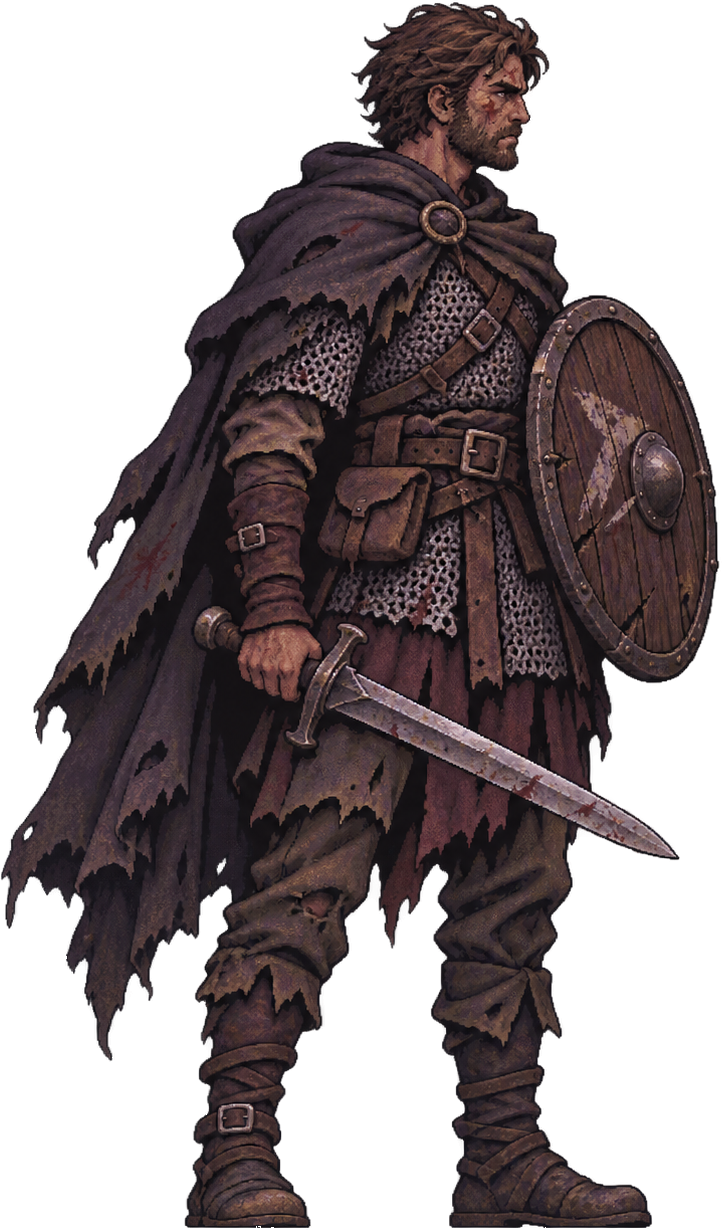
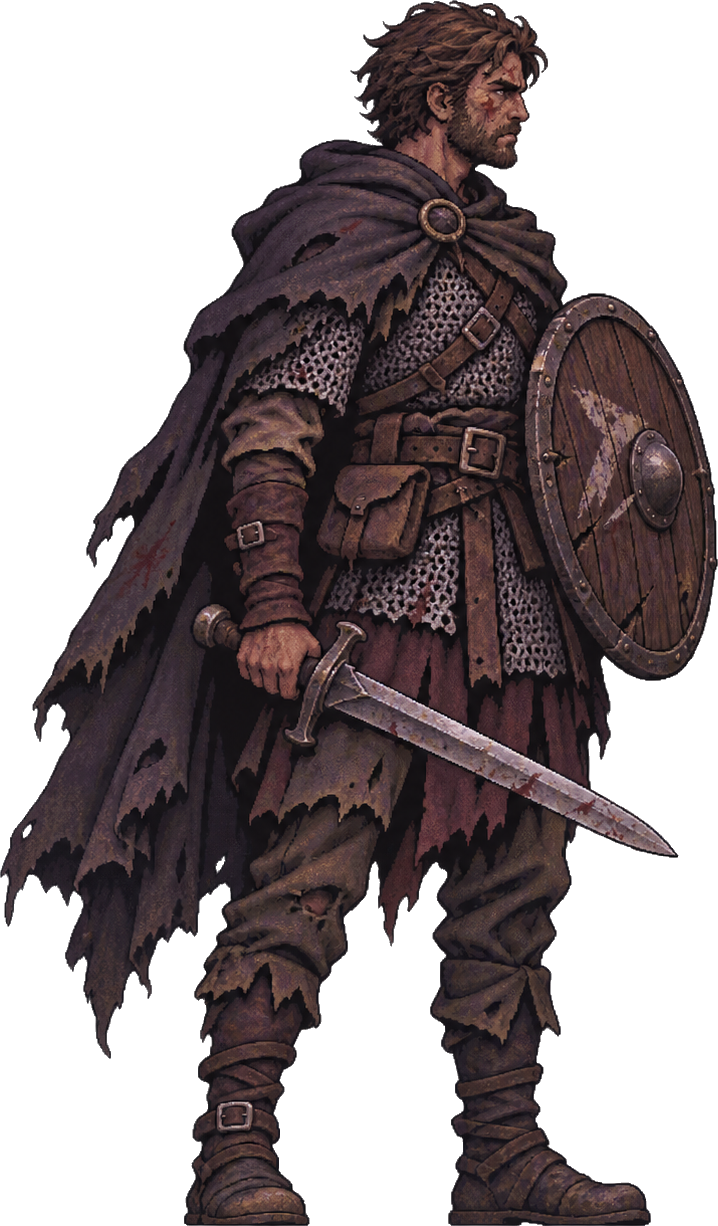
Sahne denemesi: Sınır Köyü + Miran konuşması, sahneler arası geçiş
Claude-Session: https://claude.ai/code/session_01Le7Y1iv4kFgmZVTDc5q1LV

diff --git a/sahne/index.html b/sahne/index.html
@@ -10,25 +10,29 @@
 html,body{margin:0;height:100%;background:#0b0810;color:#e9dcc4;font-family:'EB Garamond',Georgia,serif;overflow:hidden}
 #wrap{position:fixed;inset:0;display:flex;align-items:center;justify-content:center}
 #stage{position:relative;width:min(100vw,177.78vh);height:min(56.25vw,100vh);overflow:hidden;background:#120d18}
-.bg{position:absolute;inset:-2%;background:url(a/bg.webp) center/cover;transition:transform 1.2s ease,filter 1.2s ease}
+.bg{position:absolute;inset:-2%;background:center/cover;transition:transform 1.2s ease,filter 1.2s ease}
 .fight .bg{transform:scale(1.04);filter:brightness(.82) saturate(.9)}
 .fog{position:absolute;left:-50%;right:-50%;height:38%;bottom:22%;pointer-events:none;background:radial-gradient(ellipse at 30% 60%,rgba(170,150,190,.22),transparent 60%),radial-gradient(ellipse at 75% 50%,rgba(160,140,180,.18),transparent 55%);animation:fog 26s linear infinite alternate;mix-blend-mode:screen}
 @keyframes fog{to{transform:translateX(12%)}}
 .vig{position:absolute;inset:0;pointer-events:none;background:radial-gradient(ellipse at 50% 55%,transparent 45%,rgba(8,4,14,.7) 100%)}
+#black{position:absolute;inset:0;background:#000;opacity:0;pointer-events:none;transition:opacity .6s;z-index:50}
+#black.on{opacity:1}
 .unit{position:absolute;bottom:13%;transform-origin:50% 100%;transition:left .5s cubic-bezier(.3,.7,.3,1)}
 .unit img{display:block;height:100%;width:auto;filter:drop-shadow(0 0 1px rgba(0,0,0,.6))}
 .unit .sh{position:absolute;left:10%;right:10%;bottom:-2.5%;height:6%;background:radial-gradient(ellipse,rgba(0,0,0,.65),transparent 70%);z-index:-1}
 .unit .body{height:100%;transform-origin:50% 100%;animation:br 3.2s ease-in-out infinite}
 @keyframes br{50%{transform:scale(1.01,1.022)}}
-#hero{left:14%;height:46%}
-#wolf{left:62%;height:30%;cursor:pointer}
-#wolf .body{animation:brw 2.4s ease-in-out infinite}
+.unit.click{cursor:pointer}
+.unit.click:hover img{filter:drop-shadow(0 0 6px rgba(240,200,120,.7)) drop-shadow(0 0 1px #000)}
+.unit.foe.click:hover img{filter:drop-shadow(0 0 6px rgba(190,90,255,.75)) drop-shadow(0 0 1px #000)}
+.fight .unit.click{cursor:default}.fight .unit:hover img{filter:drop-shadow(0 0 1px rgba(0,0,0,.6))}
+.foe .body{animation:brw 2.4s ease-in-out infinite}
 @keyframes brw{50%{transform:scale(1.015,1.03) translateY(-.5%)}}
-#wolf:hover img{filter:drop-shadow(0 0 6px rgba(190,90,255,.75)) drop-shadow(0 0 1px #000)}
-.fight #wolf{cursor:default}.fight #wolf:hover img{filter:drop-shadow(0 0 1px rgba(0,0,0,.6))}
-.fight #hero{left:20%}.fight #wolf{left:56%}
-.tag{position:absolute;left:50%;bottom:100%;transform:translate(-50%,-8px);white-space:nowrap;font:600 clamp(11px,1.3vw,17px) 'Cinzel',serif;color:#e7d3ff;text-shadow:0 2px 4px #000;text-align:center}
-.tag small{display:block;font:italic clamp(10px,1vw,14px) 'EB Garamond';color:#cdb9e6;opacity:.85}
+.tag{position:absolute;left:50%;bottom:100%;transform:translate(-50%,-8px);white-space:nowrap;font:600 clamp(11px,1.3vw,17px) 'Cinzel',serif;color:#f0e0c0;text-shadow:0 2px 4px #000;text-align:center}
+.foe .tag{color:#e7d3ff}
+.tag small{display:block;font:italic clamp(10px,1vw,14px) 'EB Garamond';color:#d9c8a8;opacity:.85}
+.tag .q{display:inline-block;margin-left:.3em;color:#ffd24a;font-size:1.3em;animation:qb 1.2s ease-in-out infinite}
+@keyframes qb{50%{transform:translateY(-4px)}}
 .fight .tag small{display:none}
 .bars{position:absolute;left:50%;bottom:100%;transform:translate(-50%,-6px);width:clamp(120px,14vw,220px);display:none}
 .fight .bars{display:block}.fight .tag{transform:translate(-50%,calc(-8px - 2.2em))}
@@ -36,13 +40,22 @@ html,body{margin:0;height:100%;background:#0b0810;color:#e9dcc4;font-family:'EB 
 .bar i{display:block;height:100%;background:linear-gradient(#c8423a,#7d1f1d);transition:width .4s}
 .bar.mp i{background:linear-gradient(#5b7fd0,#2c447e)}
 .num{position:absolute;left:50%;top:10%;font:700 clamp(20px,2.6vw,40px) 'Cinzel';color:#ffd9a0;text-shadow:0 3px 0 #2a0c0c,0 0 8px #000;animation:num 1.1s ease-out forwards;pointer-events:none}
-.num.crit{color:#ff8a5c;font-size:clamp(26px,3.4vw,52px)}.num.miss{color:#bbb}
+.num.crit{color:#ff8a5c;font-size:clamp(26px,3.4vw,52px)}.num.miss{color:#bbb}.num.heal{color:#9dff9a}
 @keyframes num{0%{transform:translate(-50%,10px);opacity:0}15%{opacity:1}100%{transform:translate(-50%,-70px);opacity:0}}
 .hit .body{animation:hit .35s}
 @keyframes hit{20%{transform:translateX(3%);filter:brightness(2.2)}60%{transform:translateX(-2%)}}
 .lungeR .body{animation:lr .45s}@keyframes lr{40%{transform:translateX(28%)}}
 .lungeL .body{animation:ll .45s}@keyframes ll{40%{transform:translateX(-40%)}}
-.dead{transition:opacity 1s,filter 1s;opacity:0;filter:grayscale(1)}
+.dead{transition:opacity 1s,filter 1s;opacity:0;filter:grayscale(1);pointer-events:none}
+.spot{position:absolute;cursor:pointer;border-radius:8px}
+.spot span{position:absolute;left:50%;top:-6px;transform:translate(-50%,-100%);white-space:nowrap;font:600 clamp(11px,1.2vw,16px) 'Cinzel';color:#f0e0c0;text-shadow:0 2px 4px #000;background:rgba(12,8,14,.7);border:1px solid #6b5030;padding:.15em .6em;border-radius:4px;opacity:0;transition:opacity .2s}
+.spot:hover span{opacity:1}.spot:hover{box-shadow:inset 0 0 40px rgba(255,200,120,.12)}
+.fight .spot{display:none}
+.exit{position:absolute;bottom:20%;font:600 clamp(12px,1.3vw,18px) 'Cinzel';color:#f0e0c0;text-shadow:0 2px 4px #000;cursor:pointer;padding:.4em .8em;background:rgba(12,8,14,.55);border:1px solid #6b5030;border-radius:4px;animation:ex 2s ease-in-out infinite}
+.exit:hover{border-color:#e0b878;background:rgba(40,26,18,.8)}
+.exit.L{left:1.5%}.exit.R{right:1.5%}
+@keyframes ex{50%{opacity:.7}}
+.fight .exit{display:none}
 #ui{position:absolute;left:50%;bottom:2.5%;transform:translateX(-50%);display:flex;gap:10px;opacity:0;pointer-events:none;transition:opacity .4s}
 .fight #ui{opacity:1;pointer-events:auto}
 .btn{font:600 clamp(12px,1.25vw,17px) 'Cinzel',serif;color:#f1e2c6;background:linear-gradient(#3a2a22,#1e1511);border:1px solid #8a6a44;border-radius:4px;padding:.6em 1.2em;cursor:pointer;box-shadow:0 3px 0 #0c0806,inset 0 1px 0 rgba(255,220,170,.15)}
@@ -51,49 +64,98 @@ html,body{margin:0;height:100%;background:#0b0810;color:#e9dcc4;font-family:'EB 
 #top{position:absolute;left:3%;top:4%;}
 #top h1{margin:0;font:700 clamp(18px,2.4vw,34px) 'Cinzel';color:#efe0c4;text-shadow:0 2px 6px #000;letter-spacing:.04em}
 #top p{margin:.1em 0 0;font:italic clamp(12px,1.3vw,18px) 'EB Garamond';color:#cbb8d8;text-shadow:0 2px 4px #000}
-#bubble{position:absolute;left:12%;bottom:62%;max-width:30%;background:rgba(14,9,18,.86);border:1px solid #6d5480;border-radius:6px;padding:.7em 1em;font-size:clamp(13px,1.35vw,19px);line-height:1.35;box-shadow:0 6px 20px #0008;transition:opacity .5s}
+#bubble{position:absolute;max-width:32%;background:rgba(14,9,18,.9);border:1px solid #6d5480;border-radius:6px;padding:.7em 1em;font-size:clamp(13px,1.35vw,19px);line-height:1.35;box-shadow:0 6px 20px #0008;transition:opacity .3s;opacity:0;pointer-events:none;z-index:20}
+#bubble.on{opacity:1;pointer-events:auto;cursor:pointer}
 #bubble b{font-family:'Cinzel';color:#e7d3ff;font-size:.8em;display:block;margin-bottom:.2em}
+#bubble .nx{display:block;text-align:right;font-size:.75em;color:#a99;margin-top:.3em}
 #log{position:absolute;right:2.5%;top:4%;width:26%;font-size:clamp(12px,1.15vw,16px);text-align:right;text-shadow:0 2px 3px #000;opacity:0;transition:opacity .4s}
 .fight #log{opacity:1}#log div{animation:fin .4s}@keyframes fin{from{opacity:0;transform:translateY(-6px)}}
-#end{position:absolute;inset:0;display:none;align-items:center;justify-content:center;background:rgba(8,5,12,.55)}
+#end{position:absolute;inset:0;display:none;align-items:center;justify-content:center;background:rgba(8,5,12,.55);z-index:30}
 #end.on{display:flex}
 #end .card{background:linear-gradient(#21171c,#140e12);border:1px solid #8a6a44;padding:1.6em 2.4em;text-align:center;box-shadow:0 10px 40px #000c}
 #end h2{margin:0 0 .3em;font:700 clamp(24px,3vw,42px) 'Cinzel';color:#f0d79a}
+#toast{position:absolute;left:50%;top:12%;transform:translateX(-50%);background:rgba(12,8,14,.85);border:1px solid #6b5030;padding:.5em 1.2em;border-radius:4px;font-size:clamp(13px,1.3vw,18px);opacity:0;transition:opacity .3s;pointer-events:none;z-index:40}
+#toast.on{opacity:1}
 </style>
 </head>
 <body>
 <div id="wrap"><div id="stage">
-  <div class="bg"></div><div class="fog"></div>
-  <div class="unit" id="hero"><div class="tag">Deneme</div><div class="bars"><div class="bar"><i id="hhp" style="width:100%"></i></div><div class="bar mp"><i style="width:100%"></i></div></div><div class="body"><img src="a/kahraman.png" alt=""></div><div class="sh"></div></div>
-  <div class="unit" id="wolf"><div class="tag">Yozlaşmış Kurt<small>tıkla · saldır</small></div><div class="bars"><div class="bar"><i id="whp" style="width:100%"></i></div></div><div class="body"><img src="a/kurt.png" alt=""></div><div class="sh"></div></div>
+  <div class="bg" id="bg"></div><div class="fog"></div>
+  <div id="layer"></div>
   <div class="vig"></div>
-  <div id="top"><h1>Ormanlık Yol</h1><p>Sınır Köyü'ne giden eski yol</p></div>
-  <div id="bubble"><b>Deneme</b>Kökler... kararmış. Bu ormanda bir şey çürüyor.</div>
+  <div id="top"><h1 id="t1"></h1><p id="t2"></p></div>
+  <div id="bubble"></div>
   <div id="log"></div>
+  <div id="toast"></div>
   <div id="ui"><button class="btn" data-a="atk">Saldırı<small>8–12 hasar</small></button><button class="btn" data-a="sh">Kalkan Darbesi<small>sersemletir · 15 mana</small></button><button class="btn" data-a="pot">İksir<small>+40 can · 2</small></button></div>
-  <div id="end"><div class="card"><h2>Zafer!</h2><p>+30 XP · +14 altın</p><button class="btn" onclick="location.reload()">Yeniden dene</button></div></div>
+  <div id="end"><div class="card"><h2>Zafer!</h2><p>+30 XP · +14 altın</p><button class="btn" id="endok">Devam</button></div></div>
+  <div id="black"></div>
 </div></div>
 <script>
 const $=s=>document.querySelector(s),st=$('#stage');
-let H={hp:140,max:140,mp:100},W={hp:66,max:66,stun:0},pots=2,busy=false,fight=false;
 const R=(a,b)=>a+Math.floor(Math.random()*(b-a+1)),W8=ms=>new Promise(r=>setTimeout(r,ms));
+const G={name:'Deneme',hp:140,max:140,mp:100,pots:2,talked:false,wolfDead:false};
+const SC={
+ koy:{bg:'a/bg_koy.webp',t1:'Sınır Köyü',t2:'Ormanın kıyısında yorgun bir köy',
+  units:[{id:'hero',img:'a/kahraman.png',x:22,h:46,name:()=>G.name},
+         {id:'miran',img:'a/miran.png',x:60,h:44,name:()=>'Miran',sub:'Telaşlı Köylü',click:talkMiran,q:()=>!G.talked}],
+  spots:[{x:1,y:30,w:28,h:30,l:'Demirci'},{x:35,y:36,w:12,h:23,l:'Hayat Ağacı Sunağı'},{x:57,y:20,w:24,h:40,l:'Han'},{x:84,y:24,w:16,h:34,l:'Köy Kapısı'}],
+  exits:[{side:'L',l:'◀ Ormanlık Yol',to:'orman'}],
+  intro:[['hero','Burası Sınır Köyü olmalı. Herkes kapısını erkenden kapatmış.']]},
+ orman:{bg:'a/bg_orman.webp',t1:'Ormanlık Yol',t2:"Sınır Köyü'ne giden eski yol",
+  units:[{id:'hero',img:'a/kahraman.png',x:14,h:46,name:()=>G.name},
+         {id:'wolf',img:'a/kurt.png',x:62,h:30,name:()=>'Yozlaşmış Kurt',sub:'tıkla · saldır',foe:true,click:startFight,hide:()=>G.wolfDead}],
+  exits:[{side:'R',l:'Sınır Köyü ▶',to:'koy'}],
+  intro:[['hero','Kökler... kararmış. Bu ormanda bir şey çürüyor.']]}
+};
+let cur=null,busy=false,fight=false,W={};
+function toast(t){const e=$('#toast');e.textContent=t;e.classList.add('on');clearTimeout(e._t);e._t=setTimeout(()=>e.classList.remove('on'),2200)}
+async function go(k,first){$('#black').classList.add('on');if(!first)await W8(600);cur=k;const s=SC[k];
+ $('#bg').style.backgroundImage=`url(${s.bg})`;$('#t1').textContent=s.t1;$('#t2').textContent=s.t2;
+ let h='';s.units.forEach(u=>{if(u.hide&&u.hide())return;h+=`<div class="unit ${u.foe?'foe':''} ${u.click?'click':''}" id="u-${u.id}" style="left:${u.x}%;height:${u.h}%"><div class="tag">${u.name()}${u.q&&u.q()?'<span class="q">!</span>':''}${u.sub?`<small>${u.sub}</small>`:''}</div>${u.id==='hero'||u.foe?`<div class="bars"><div class="bar"><i id="hp-${u.id}" style="width:100%"></i></div>${u.id==='hero'?'<div class="bar mp"><i id="mp-hero" style="width:100%"></i></div>':''}</div>`:''}<div class="body"><img src="${u.img}" alt=""></div><div class="sh"></div></div>`});
+ (s.spots||[]).forEach(p=>h+=`<div class="spot" style="left:${p.x}%;top:${p.y}%;width:${p.w}%;height:${p.h}%" data-l="${p.l}"><span>${p.l}</span></div>`);
+ (s.exits||[]).forEach(e=>h+=`<div class="exit ${e.side}" data-to="${e.to}">${e.l}</div>`);
+ $('#layer').innerHTML=h;
+ s.units.forEach(u=>{const el=$('#u-'+u.id);if(el&&u.click)el.onclick=u.click});
+ document.querySelectorAll('.spot').forEach(p=>p.onclick=()=>toast(p.dataset.l+' · bu denemede kapalı'));
+ document.querySelectorAll('.exit').forEach(e=>e.onclick=()=>{if(!busy)go(e.dataset.to)});
+ await W8(150);$('#black').classList.remove('on');
+ if(!s.seen){s.seen=1;await W8(700);await say(s.intro)}}
+function bubbleAt(id){const el=$('#u-'+id),b=$('#bubble'),r=el.getBoundingClientRect(),S=st.getBoundingClientRect();
+ const cx=(r.left+r.right)/2-S.left,top=r.top-S.top;b.style.left='';b.style.right='';
+ if(cx<S.width/2)b.style.left=Math.max(10,cx-60)+'px';else b.style.right=Math.max(10,S.width-cx-60)+'px';
+ b.style.bottom=(S.height-top+64)+'px'}
+function say(lines){return new Promise(res=>{busy=true;let i=0;const b=$('#bubble');
+ const show=()=>{if(i>=lines.length){b.classList.remove('on');b.onclick=null;busy=false;res();return}
+  const [who,t]=lines[i++];const nm=who==='hero'?G.name:SC[cur].units.find(u=>u.id===who).name();
+  b.innerHTML=`<b>${nm}</b>${t}<span class="nx">${i<lines.length?'devam ›':'kapat'}</span>`;bubbleAt(who);b.classList.add('on')};
+ b.onclick=show;show()})}
+async function talkMiran(){if(busy||fight)return;
+ if(!G.talked){await say([['miran','Yolcu! Tanrılara şükür, silahlı birisin. Dinle beni, lütfen.'],['miran','Üç gecedir kurtlar ormandan iniyor. Normal kurtlar değil bunlar... gözleri kızıl, derilerinde mor damarlar.'],['hero','Mor damarlar mı? Yolda ağaç köklerinde de aynısını gördüm.'],['miran','Demek orman da hasta. Yol üstündeki kurdu öldürürsen köy bir nefes alır. Karşılığını öderiz, söz.'],['hero','Bakarım. Sen kapını sıkı kapat.']]);G.talked=true;const q=document.querySelector('#u-miran .q');if(q)q.remove();toast('Yeni görev: Ormanlık Yol\'daki kurdu öldür')}
+ else if(!G.wolfDead)await say([['miran','Kurt hâlâ yolda mı? Ormanlık Yol batıda, köyün çıkışından.']]);
+ else await say([['miran','Kurdu öldürdün mü? Gerçekten mi? Bu gece köy rahat uyuyacak.'],['miran','Al, bu senin hakkın. Ama korkarım bu daha başlangıç...']])}
 function log(t){const d=document.createElement('div');d.innerHTML=t;$('#log').prepend(d);while($('#log').children.length>5)$('#log').lastChild.remove()}
 function num(el,t,c){const n=document.createElement('div');n.className='num '+(c||'');n.textContent=t;el.appendChild(n);setTimeout(()=>n.remove(),1100)}
-function upd(){$('#hhp').style.width=H.hp/H.max*100+'%';$('#whp').style.width=Math.max(0,W.hp)/W.max*100+'%';document.querySelector('[data-a=pot] small').textContent=`+40 can · ${pots}`;document.querySelector('[data-a=pot]').disabled=!pots;document.querySelector('[data-a=sh]').disabled=H.mp<15}
+function upd(){$('#hp-hero').style.width=G.hp/G.max*100+'%';$('#mp-hero').style.width=G.mp+'%';const w=$('#hp-wolf');if(w)w.style.width=Math.max(0,W.hp)/W.max*100+'%';
+ document.querySelector('[data-a=pot] small').textContent=`+40 can · ${G.pots}`;document.querySelector('[data-a=pot]').disabled=!G.pots;document.querySelector('[data-a=sh]').disabled=G.mp<15}
 function anim(el,c,ms){el.classList.remove(c);void el.offsetWidth;el.classList.add(c);return W8(ms)}
-$('#wolf').onclick=async()=>{if(fight)return;fight=true;$('#bubble').style.opacity=0;st.classList.add('fight');log('Yozlaşmış Kurt dişlerini gösteriyor!');upd()};
+function startFight(){if(fight||busy)return;fight=true;W={hp:66,max:66,stun:0};$('#log').innerHTML='';st.classList.add('fight');
+ $('#u-hero').style.left='20%';$('#u-wolf').style.left='56%';log('Yozlaşmış Kurt dişlerini gösteriyor!');upd()}
 document.querySelectorAll('[data-a]').forEach(b=>b.onclick=()=>act(b.dataset.a));
-async function act(a){if(busy||!fight)return;busy=true;const h=$('#hero'),w=$('#wolf');
- if(a==='pot'){pots--;H.hp=Math.min(H.max,H.hp+40);num(h,'+40','');h.querySelector('.num').style.color='#9dff9a';log('İksir içtin. <b>+40 can</b>')}
- else{await anim(h,'lungeR',220);const crit=Math.random()<.15,miss=Math.random()<.12;let d=a==='sh'?R(5,8):R(8,12);if(a==='sh')H.mp-=15;
+async function act(a){if(busy||!fight)return;busy=true;const h=$('#u-hero'),w=$('#u-wolf');
+ if(a==='pot'){G.pots--;G.hp=Math.min(G.max,G.hp+40);num(h,'+40','heal');log('İksir içtin. <b>+40 can</b>')}
+ else{await anim(h,'lungeR',220);const crit=Math.random()<.15,miss=Math.random()<.12;let d=a==='sh'?R(5,8):R(8,12);if(a==='sh')G.mp-=15;
   if(miss){num(w,'ıska','miss');log('Kurt son anda sıçradı. <b>Iska!</b>')}
   else{if(crit)d=Math.round(d*1.8);W.hp-=d;anim(w,'hit',350);num(w,d,crit?'crit':'');log(`${a==='sh'?'Kalkan darbesi':'Kılıç darbesi'}: <b>${d}</b> hasar${crit?' · kritik!':''}`);if(a==='sh'){W.stun=1;log('Kurt sersemledi.')}}
   await W8(260)}
- upd();if(W.hp<=0){w.classList.add('dead');log('Kurt yere yığıldı.');await W8(900);$('#end').classList.add('on');return}
+ upd();if(W.hp<=0){w.classList.add('dead');log('Kurt yere yığıldı.');G.wolfDead=true;await W8(900);$('#end').classList.add('on');return}
  await W8(500);
  if(W.stun){W.stun=0;log('Kurt toparlanmaya çalışıyor...')}
- else{await anim(w,'lungeL',220);const d=R(6,11);H.hp=Math.max(1,H.hp-d);anim(h,'hit',350);num(h,d);log(`Kurt ısırdı: <b>${d}</b> hasar`)}
+ else{await anim(w,'lungeL',220);const d=R(6,11);G.hp=Math.max(1,G.hp-d);anim(h,'hit',350);num(h,d);log(`Kurt ısırdı: <b>${d}</b> hasar`)}
  upd();busy=false}
+$('#endok').onclick=async()=>{$('#end').classList.remove('on');fight=false;busy=false;st.classList.remove('fight');$('#u-hero').style.left='14%';G.mp=100;
+ await W8(500);await say([['hero',G.talked?'Yol temiz. Miran\'a haber vereyim.':'Bu kurt yalnız değildi. Köye gidip sormalıyım.']])};
+go('koy',true);
 </script>
 </body>
 </html>
